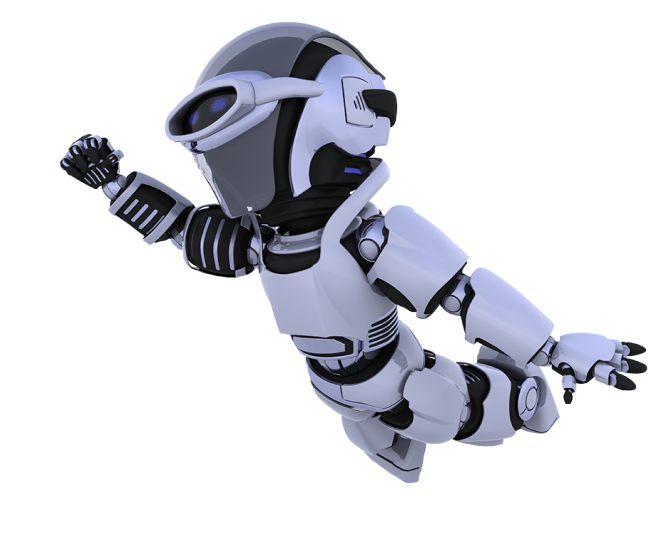
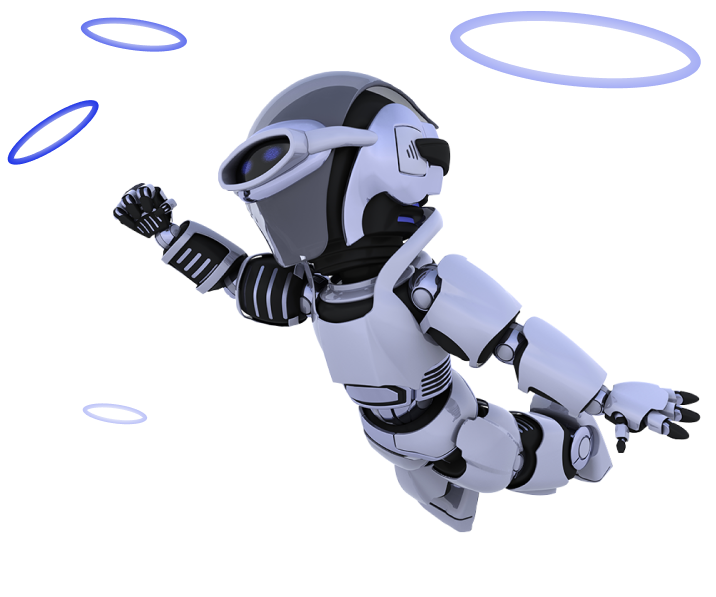
ver 1.2

diff --git a/css/style.css b/css/style.css
@@ -21,7 +21,7 @@ li {
 }
 
 body {
-    background: url(/img/bg.jpg) center center no-repeat;
+    background: url(../img/bg.jpg) center center no-repeat;
     background-size: cover;
 }
 
@@ -142,63 +142,6 @@ body {
 }
 
 
-@keyframes run1 {
-    0% {
-        transform: translate(0) rotate(360deg);
-    }
-    30% {
-        transform: translateX(700px);
-    }
-    60% {
-        transform: translateY(500px) rotate(360deg);
-    }
-    80% {
-        transform: translateX(-600px);
-    }
-    100% {
-        transform: translateX(0) rotate(360deg);
-    }
-}
-
-@keyframes rotate2 {
-    0% {
-        transform: translate(0);
-    }
-    30% {
-        transform: translateX(-200px) translateY(-180px) rotate(360deg);
-    }
-    50% {
-        transform: translateY(600px) translateX(-600px); 
-    }
-    70% {
-        transform: translateY(400px) translateX(-300px) rotate(360deg);
-    }
-    100% {
-        transform: translateY(0);
-    }
-}
-
-.header__content-text::before {
-    content: url(/img/svg/header/Ellipse-lg.svg);
-    position: absolute;
-    width: 1vw;
-    top: -40%;
-    right: -40%;
-    z-index: -1;
-    animation: name duration timing-function delay iteration-count direction fill-mode;
-   /* animation: run1 25s linear infinite; */ 
-}
-
-.header__content-text::after {
-    content: url(/img/svg/header/Ellipse-md.svg);
-    position: absolute;
-    top: -20%;
-    right: -30%;
-    z-index: -1;
- /*   animation: rotate2 15s linear infinite; */
-}
-
-
 .all-title {
     font-size: 48px;
     color: var(--primary-color);
@@ -219,22 +162,6 @@ body {
     max-width: 663px;
     width: 100%;
     position: relative;
-}
-
-.header__content-img-box::before {
-    content: url(/img/svg/header/Ellipse-xxl.svg);
-    position: absolute;
-    top: -10%;
-    right: 0;
-    z-index: -1;
-}
-
-.header__content-img-box::after {
-    content: url(/img/svg/header/Ellipse-sm.svg);
-    position: absolute;
-    bottom: 30%;
-    left: 0;
-    z-index: -1;
 }
 
 .header__content-img {
@@ -320,6 +247,10 @@ body {
 .tech__desc {
     font-size: 14px;
     color: var(--primary-color);
+}
+
+.tech__img {
+    width: 100%;
 }
 
 

diff --git a/index.html b/index.html
@@ -42,7 +42,7 @@
                 </div>
 
                 <div class="header__content-img-box">
-                    <img src="img/header/robot-img.png" alt="" class="header__content-img">
+                    <img src="/img/header/robot-img.png" alt="" class="header__content-img">
                 </div>
 
             </div>
